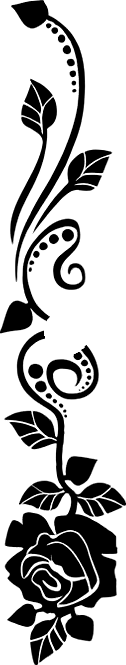
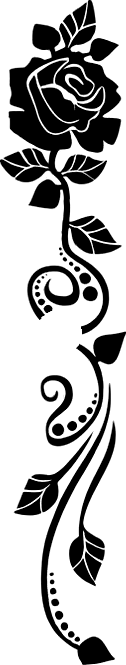
Marque-pages : dessin n° 5 redressé (rose en haut), contrôle des 86 découpes
Claude-Session: https://claude.ai/code/session_013Nt78VnTBT8S9aqZe85f4z

diff --git a/tools/maquettes/marque-pages-decoupe-dessins.py b/tools/maquettes/marque-pages-decoupe-dessins.py
@@ -3,6 +3,7 @@ from PIL import Image, ImageDraw
 from scipy import ndimage as ndi
 S=sys.argv[1]; OUT=sys.argv[2]
 auto=json.load(open(f'{S}/boxes.json'))
+RETOURNES={5}  # dessins tournés de 180° par rapport à la planche (24/10 : le n° 5 avait la rose au pied)
 MANUAL={0:{1:(0,0,400,450),2:(350,70,760,250),3:(130,215,580,475),4:(190,445,560,615),5:(610,240,760,920),6:(0,540,230,1000),
           7:(205,680,420,1260),8:(400,690,620,1150),9:(390,980,760,1349),10:(0,990,260,1349)},
         1:{11:(0,0,180,290),12:(110,85,260,200),13:(210,0,640,80),14:(285,85,760,170),15:(400,190,650,270),16:(305,185,400,330),
@@ -61,7 +62,9 @@ for pi,res in auto.items():
         alpha=np.clip((235-gray)/(235-40),0,1)*own
         sub=alpha[y0:y1,x0:x1]
         rgba=np.zeros((y1-y0,x1-x0,4),np.uint8); rgba[...,3]=(sub*255).astype(np.uint8)
-        Image.fromarray(rgba,'RGBA').save(f'{OUT}/{k:03d}.png')
+        out=Image.fromarray(rgba,'RGBA')
+        if k in RETOURNES: out=out.rotate(180)  # 24/10 soir, gérant : « ce dessin il est à l'envers » (n° 5 : rose en bas sur la planche → rose en haut)
+        out.save(f'{OUT}/{k:03d}.png')
         rows_ct.append((k,Image.open(f'{OUT}/{k:03d}.png')))
 # planche de contrôle
 rows_ct.sort(key=lambda t:t[0]); T=150; cols=15; n=len(rows_ct); R=(n+cols-1)//cols

diff --git a/CLAUDE.md b/CLAUDE.md
@@ -165,6 +165,13 @@
     · port : un marque-page en BOÎTE CADEAU = un COLIS, au prix de l'option que la cliente choisit (relais, domicile, Express Chronopost
     = le plus cher), c'est-à-dire la règle normale du site, rien de spécial ; **le marque-page seul = LETTRE SUIVIE** (gérant : « c'est pas au grammage, ça sera une lettre suivie, t'as tous les prix ») : grille du site telle quelle, 4,90 € ; · la DATE d'arrivée
     (phrase « Expédition à partir du … ») : il la donnera. Panier mixte précommande + stock : pas tranché (un seul colis à la fin par défaut).
+  · ⛔ **DESSIN N° 5 À L'ENVERS (24/10 soir, capture du coffret : « ce dessin il est à l'envers, il faut que tu fasses attention sur les
+    dessins »)** : sur la planche du gobelet, le n° 5 est dessiné rose AU PIED, tige qui monte ; la découpe était fidèle à la planche, donc la
+    rose sortait en bas du marque-page. `dessins/005.png` tourné de 180° (rose en haut, tige qui retombe ; `RETOURNES={5}` dans
+    `marque-pages-decoupe-dessins.py`, CONTROLE.jpg et LISEZ-MOI à jour). Les 85 autres découpes revues une par une : dans le bon sens
+    (le n° 6 a sa tige sous la fleur). Règle : **avant de servir un dessin dans un aperçu, le regarder dans le sens où il sera gravé**
+    (fleur / animal en haut, tige en dessous) : une planche peut être dessinée autrement. Trois maquettes régénérées et republiées :
+    modèle 1 v16 · modèle 2 v15 · carnet v7 (exemples inchangés : aucun n'utilise le n° 5). Vérifié 390 / 1280 : 0 erreur, 0 débordement.
 - **Modèle 2 « ajouré, oiseau et magnolia »** : https://claude.ai/artifact/CKqzt46EGgVntsypefi1Tv (v3, 23/10 : face gravable, TEXTE seulement) · 4 couleurs · **13,90 €** · texte sur la face **+3 €** (en haut / en bas à la verticale, jamais de dessin : le recto est déjà décoré) · texte au verso **+3 €** · mêmes boîtes.
 - **Modèle 3 « métal, peintures célèbres »** : https://claude.ai/artifact/VaSkxKqaBF6oeRDpQwKcji (v4) · 8 tableaux · **15,90 €**, Papillon en coffret **19,90 €** ·
   **SANS gravure** · mêmes boîtes · fenêtre du coffret = choix des tableaux seulement.

diff --git a/docs/maquettes/assets/marque-pages/dessins/LISEZ-MOI.md b/docs/maquettes/assets/marque-pages/dessins/LISEZ-MOI.md
@@ -6,3 +6,8 @@ encre = noirceur. 1–74 = dessins · 88–94, 96, 98, 100, 101, 102 = cadres re
 Fabrication : `tools/maquettes/marque-pages-badges.py` (détection des pastilles numérotées + boîtes automatiques) puis
 `tools/maquettes/marque-pages-decoupe-dessins.py` (boîtes corrigées à la main pour les planches 1–10, 11–27, 28–36, 37–45, 88–91 ;
 découpe par composantes d'encre). `CONTROLE.jpg` = la planche de contrôle regardée. Servis par `tools/maquettes/mp_apercu.py`.
+⚠ 24/10 soir (gérant, capture du coffret : « ce dessin il est à l'envers, il faut que tu fasses attention sur les dessins ») : le **n° 5** est
+dessiné sur la planche avec la rose AU PIED et la tige qui monte ; sur un marque-page il se lit à l'envers → `005.png` est tourné de 180° (rose en
+haut, tige qui retombe ; `RETOURNES={5}` dans le script de découpe). Les 85 autres découpes ont été revues une par une sur `CONTROLE.jpg` : elles se
+lisent dans le bon sens (fleur ou animal en haut, tige en dessous ; le n° 6 a bien sa tige sous la fleur). Au milieu d'un marque-page, un dessin
+LARGE ou un cadre est posé à la verticale (tourné de −90°, le haut du dessin vers la gauche, comme un texte qui se lit de bas en haut).
